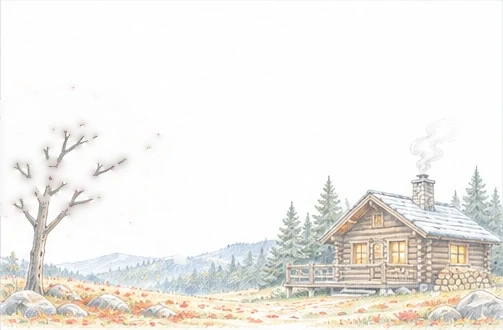
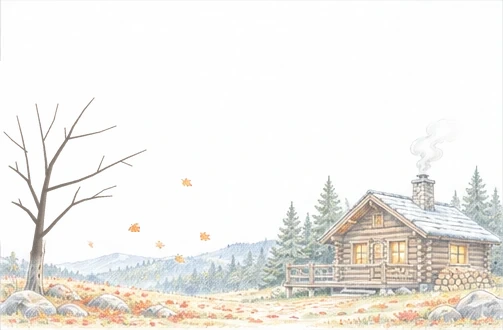
Windmill sails turn in the mill's plane; cow grazes; cleaner bare maple
- Netherlands: sails turn foreshortened in the tilted plane the drawing
  shows; tower and cap repainted cleanly behind them; new see-through sail.
- Switzerland: the cow lifts its head to chew now and then.
- Canada: the bare maple is redrawn as one connected tree.

diff --git a/src/component/CountryScene.jsx b/src/component/CountryScene.jsx
@@ -43,7 +43,7 @@ const SCENES = {
     hotel: { aurora: [50, 110, 440, 210], smoke: [[410, 222]] },
   },
   netherlands: {
-    prep: { sails: { src: dutchSail, at: [28, 116], size: [57, 74], hub: [86, 182], seconds: 14 }, water: [200, 290, 503, 330], drift: { kind: "petal", from: [[470, 170], [420, 190], [500, 210], [380, 180]] } },
+    prep: { sails: { src: dutchSail, at: [27, 118], size: [70, 63], hub: [86, 181], tips: [[30, 130], [126, 133], [146, 232], [44, 246]], seconds: 14 }, water: [200, 290, 503, 330], drift: { kind: "petal", from: [[470, 170], [420, 190], [500, 210], [380, 180]] } },
     hotel: { water: [0, 268, 330, 330], drift: { kind: "petal", from: [[480, 130], [440, 150], [500, 170], [400, 160]] } },
   },
   france: {
@@ -53,7 +53,8 @@ const SCENES = {
   switzerland: {
     // The train is cut from the picture (the picture has it painted out).
     prep: { train: { src: swissTrain, at: [264, 230], size: [172, 49], from: 250, to: -240, slope: -0.11, hideLeft: [190, 215], seconds: 20 } },
-    hotel: { smoke: [[20, 122]] },
+    // The cow grazing: its head lifts a little to chew, then dips again.
+    hotel: { smoke: [[20, 122]], graze: { box: [361, 279, 405, 323], pivot: [399, 283] } },
   },
   newZealand: {
     prep: { water: [160, 256, 503, 292] },
@@ -285,18 +286,33 @@ function Steam({ id, k, from }) {
 
 // A windmill's sails turning: one sail cut from the picture (which has its
 // own sails painted out), set four times round the hub and turned slowly.
-function Sails({ src, at: [x, y], size: [sw, sh], hub: [hx, hy], seconds }) {
+// The mill is drawn three-quarter on, so the sails turn in a tilted plane:
+// the picture's four sail tips give that plane (sail one along its x axis,
+// sail two along its y axis), and the sails turn in it, seen foreshortened.
+const PLAIN = { transformBox: "view-box", transformOrigin: "0 0" };
+function Sails({ src, at: [x, y], size: [sw, sh], hub: [hx, hy], tips: [t1, t2, t3, t4], seconds }) {
+  const a = ((t1[0] - hx) + (hx - t3[0])) / 2;
+  const b = ((t1[1] - hy) + (hy - t3[1])) / 2;
+  const c = ((t2[0] - hx) + (hx - t4[0])) / 2;
+  const d = ((t2[1] - hy) + (hy - t4[1])) / 2;
+  const det = a * d - b * c;
+  const plane = `matrix(${a} ${b} ${c} ${d} ${hx} ${hy})`;
+  const flat = `matrix(${d / det} ${-b / det} ${-c / det} ${a / det} 0 0) translate(${-hx} ${-hy})`;
   return (
     <g>
-      {/* Turn about the hub in picture pixels, not the group's own centre. */}
-      <g style={{ transformBox: "view-box", transformOrigin: "0 0" }}>
-        {[0, 90, 180, 270].map((angle) => (
-          <image key={angle} href={src} x={x} y={y} width={sw} height={sh} transform={`rotate(${angle} ${hx} ${hy})`} />
-        ))}
-        <animateTransform attributeName="transform" type="rotate" dur={`${seconds}s`} repeatCount="indefinite"
-          values={`0 ${hx} ${hy};360 ${hx} ${hy}`} />
+      <g style={PLAIN} transform={plane}>
+        <g style={PLAIN}>
+          {[0, 90, 180, 270].map((angle) => (
+            <g key={angle} style={PLAIN} transform={`rotate(${angle}) ${flat}`}>
+              <image href={src} x={x} y={y} width={sw} height={sh} />
+            </g>
+          ))}
+          {/* Turn backwards in the plane: anticlockwise, as Dutch mills turn. */}
+          <animateTransform attributeName="transform" type="rotate" dur={`${seconds}s`} repeatCount="indefinite"
+            values="0;-360" />
+        </g>
       </g>
-      <circle cx={hx} cy={hy} r="2.5" fill="#6e5f50" />
+      <circle cx={hx} cy={hy} r="3" fill="#7a6a5a" />
     </g>
   );
 }
@@ -420,6 +436,7 @@ function CountryScene({ country, page }) {
           {scene.steam && <Steam id={id} k={k} from={scene.steam} />}
           {scene.sway && <Nod id={`${id}-sway`} src={src} w={w} h={h} {...scene.sway} className="cs-sway" round={12} />}
           {scene.nod && <Nod id={id} src={src} w={w} h={h} {...scene.nod} />}
+          {scene.graze && <Nod id={`${id}-graze`} src={src} w={w} h={h} {...scene.graze} className="cs-graze" round={14} />}
           {scene.bob && <Bob id={id} src={src} w={w} h={h} box={scene.bob} />}
           {scene.maple && <Maple id={id} {...scene.maple} />}
           {scene.sails && <Sails {...scene.sails} />}

diff --git a/src/assets/pages/_country-scene.scss b/src/assets/pages/_country-scene.scss
@@ -44,6 +44,20 @@
   82%, 100% { transform: rotate(0deg) scale(1); }
 }
 
+// A cow grazing: head down in the grass, now and then lifting a little to
+// chew, then down again. It grows a touch while lifted to cover the head
+// drawn beneath it.
+.cs-graze { animation: cs-graze 9s ease-in-out infinite; }
+@keyframes cs-graze {
+  0%, 30% { transform: rotate(0deg) scale(1); }
+  42% { transform: rotate(10deg) scale(1.05); }
+  47% { transform: rotate(8deg) scale(1.045); }
+  52% { transform: rotate(10deg) scale(1.05); }
+  57% { transform: rotate(8deg) scale(1.045); }
+  62% { transform: rotate(10deg) scale(1.05); }
+  76%, 100% { transform: rotate(0deg) scale(1); }
+}
+
 // Hot-spring steam rising, swelling and fading.
 .country-scene-motion .cs-steam { opacity: 0; transform-box: fill-box; transform-origin: center bottom; animation: cs-steam 7.5s ease-out infinite; }
 @keyframes cs-steam {
